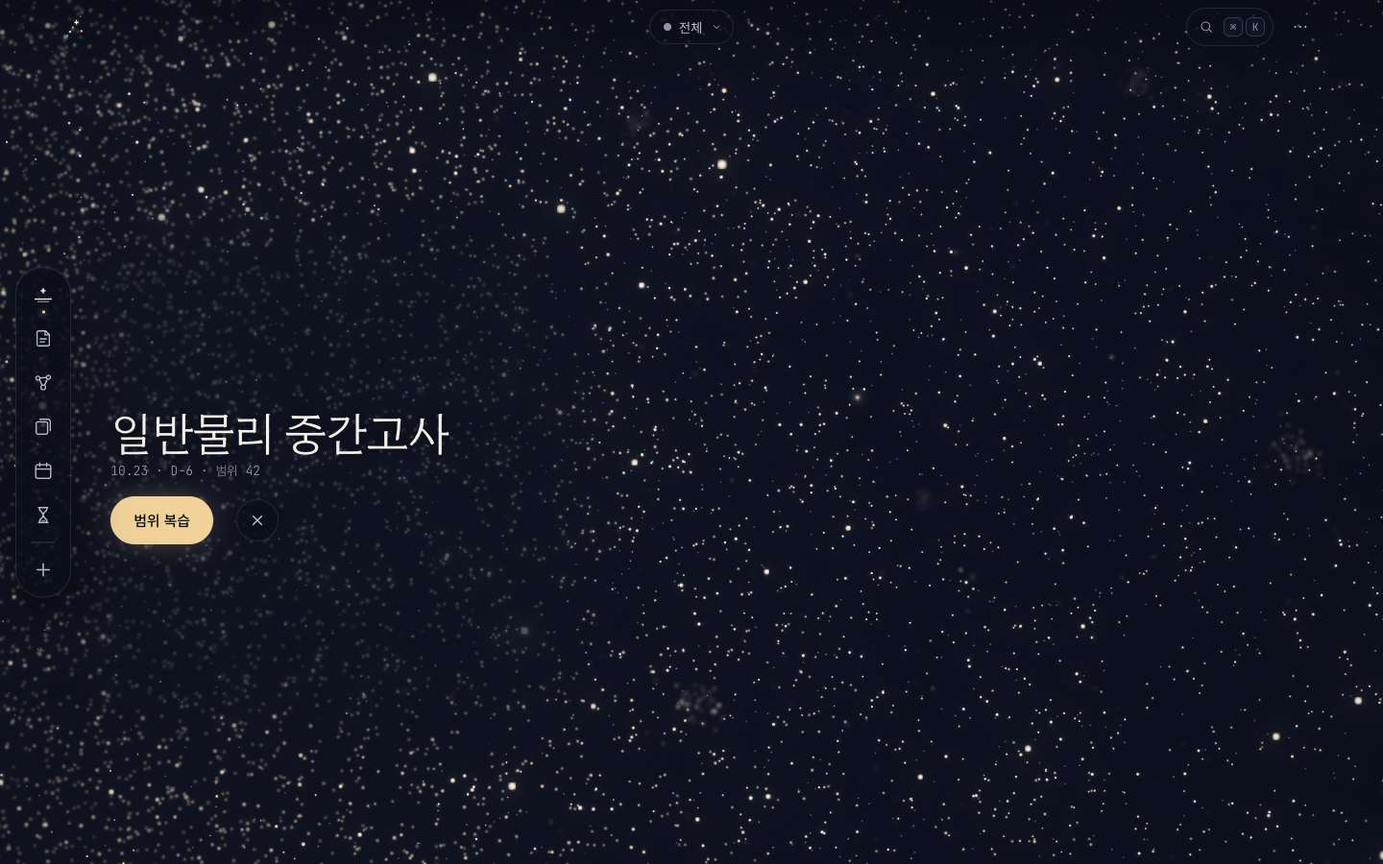
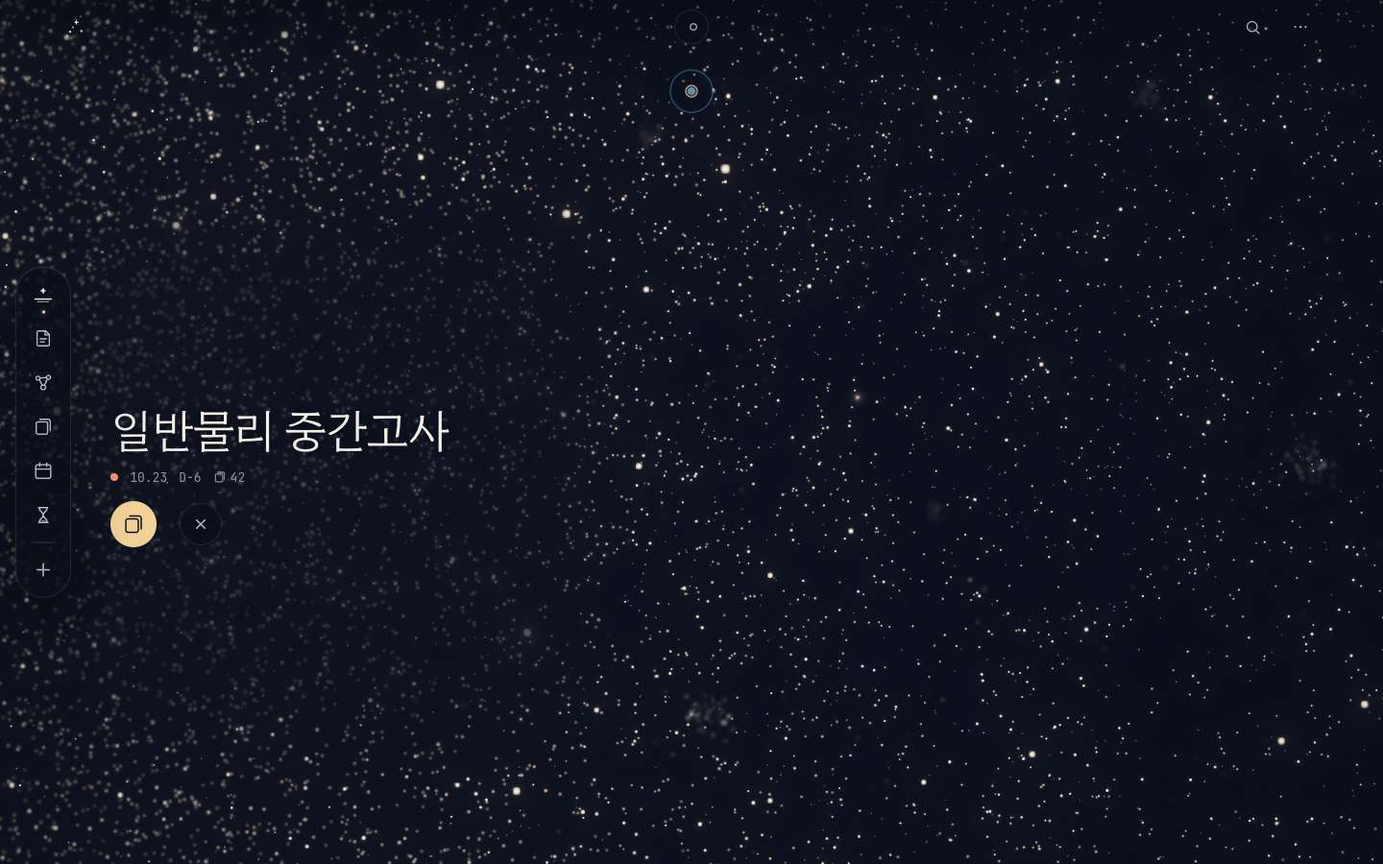
M3 최종 검수: review-m3(상 0·중 2·하 5) + 캡처 18장·한눈 시트

diff --git a/team/qa-tools/scenarios/qa-ink.js b/team/qa-tools/scenarios/qa-ink.js
@@ -1,0 +1,31 @@
+// 손글씨 종이(태블릿 1180×820, 펜): 쓰기·닫고 다시 열기·두/세 손가락 탭·둥근 메뉴·쪽 서랍·내보내기·Esc 겹침·오므려 닫기
+const R = (k, v) => print(k, typeof v === 'string' ? v : JSON.stringify(v))
+const step = async (name, fn) => { try { await fn() } catch (e) { R(name + ' ERR', e.message) } }
+const cnt = (store) => ev(`new Promise((ok) => { const q = indexedDB.open('gyeol'); q.onsuccess = () => { const t = q.result.transaction('${store}').objectStore('${store}').count(); t.onsuccess = () => { ok(t.result); q.result.close() } } })`)
+const L = () => ev(`(() => { const v = (s) => [...document.querySelectorAll(s)].some(e => { const r = e.getBoundingClientRect(); return r.width > 2 && +getComputedStyle(e).opacity > 0.05 && !e.closest('[inert]') }); const o = { pie: v('.ink-pie'), drawer: v('[class*=ink-drawer]'), sel: v('[aria-label="고른 것"]'), pop: v('.ink-pop'), palette: v('.palette'), undo: v('[class*=undo], [aria-label*="되돌"]'), tape: v('[class*=tape-chip], [class*=ink-tape]'), canvas: v('.ink-canvas') }; return Object.keys(o).filter(k => o[k]).join('+') })()`)
+const cv = async () => (await find('.ink-canvas'))[0]
+const pen = async (x1, y1, x2, y2) => { setMode('pen'); await drag(x1, y1, x2, y2, { steps: 10, stepMs: 12, force: 0.6 }) }
+const tapN = async (pts) => { await t('touchStart', pts); await sleep(60); await t('touchEnd', []); await sleep(500) }
+await size(1180, 820, { touch: true }); await nav('/notes', 2500)
+setMode('pen'); await tapSel('#stage button', '새 노트'); await sleep(1800)
+let c = await cv(); R('canvas', c)
+const s0 = await cnt('strokes')
+await step('I1', async () => { await pen(c.x - 200, c.y - 100, c.x - 60, c.y - 60); await pen(c.x - 200, c.y, c.x - 40, c.y + 20); await pen(c.x - 200, c.y + 80, c.x - 20, c.y + 90); await sleep(800); R('I1 strokes +', (await cnt('strokes')) - s0) })
+await shot('qa-r2-ink-written_1180x820', { clip: { x: 0, y: 0, width: 1180, height: 820 }, scale: 0.5 })
+await step('I3', async () => { const a = await cnt('strokes'); setMode('touch'); await tapN([[c.x + 100, c.y, 0], [c.x + 160, c.y, 1]]); await sleep(600); const b = await cnt('strokes'); await tapN([[c.x + 100, c.y, 0], [c.x + 160, c.y, 1], [c.x + 220, c.y, 2]]); await sleep(600); R('I3 2-finger undo / 3-finger redo strokes', [a, b, await cnt('strokes')]) })
+await step('I4', async () => {
+  setMode('pen'); await down(c.x + 150, c.y + 150); await sleep(750); R('I4 pen hold 750ms', await L()); await up(c.x + 150, c.y + 150); await sleep(300); R('  after lift', await L()); await key('Escape'); await sleep(300)
+  setMode('touch'); await down(c.x + 150, c.y + 150); await sleep(600); R('I4 finger hold 600ms', await L()); await up(c.x + 150, c.y + 150); await sleep(300); await key('Escape'); await sleep(300)
+  await send('Input.dispatchMouseEvent', { type: 'mousePressed', x: c.x + 150, y: c.y + 150, button: 'right', buttons: 2, clickCount: 1 }); await send('Input.dispatchMouseEvent', { type: 'mouseReleased', x: c.x + 150, y: c.y + 150, button: 'right', buttons: 0, clickCount: 1 }); await sleep(400)
+  R('I4 right click', await L()); await shot('qa-r2-ink-pie_1180x820', { clip: { x: 0, y: 0, width: 1180, height: 820 }, scale: 0.5 }); await key('Escape'); await sleep(300); R('  Esc', await L())
+})
+await step('I7', async () => { setMode('mouse'); await key('g'); await sleep(500); R('I7 G', await L()); await shot('qa-r2-ink-drawer_1180x820', { clip: { x: 0, y: 0, width: 1180, height: 820 }, scale: 0.5 }) })
+await step('I9', async () => { await key('k', 4); await sleep(400); R('I9 +⌘K', await L()); await key('Escape'); await sleep(400); R('  Esc1', await L()); await key('Escape'); await sleep(400); R('  Esc2', await L()); await key('Escape'); await sleep(900); R('  Esc3', (await L()) + ' canvas=' + (await find('.ink-canvas')).length + ' path=' + (await st()).path) })
+await step('I2', async () => { await nav('/notes', 2500); const [n] = await find('#stage li button:not(.notes-today-row)'); R('I2 first list item', n.t); await tap(n.x, n.y); await sleep(1800); R('I2 reopened canvas', (await find('.ink-canvas')).length + ' strokes total ' + await cnt('strokes')); await shot('qa-r2-ink-reopen_1180x820', { clip: { x: 0, y: 0, width: 1180, height: 820 }, scale: 0.5 }) })
+await step('I8', async () => { setMode('mouse'); await tapSel('.ink-tools [aria-label="더 보기"], [class*=ink] [aria-label="더 보기"]'); await sleep(400); const ex = await find('button', '내보내기'); R('I8 more menu has 내보내기', ex.length); if (ex[0]) { await tap(ex[0].x, ex[0].y); await sleep(400); R('  export pop', await ev(`[...document.querySelectorAll('.ink-pop button')].filter(b => b.getBoundingClientRect().width).map(b => b.getAttribute('aria-label') || b.innerText).join('/')`)) } await key('Escape'); await sleep(300); await key('Escape'); await sleep(300) })
+await step('I10', async () => {
+  c = await cv(); if (!c) { R('I10', 'no canvas'); return }
+  setMode('touch'); await pinch(c.x, c.y, 300, 270); await sleep(900); R('I10 pinch 300→270 (90%) → canvas', (await find('.ink-canvas')).length)
+  await pinch(c.x, c.y, 300, 180); await sleep(1200); R('I10 pinch 300→180 (60%) → canvas', (await find('.ink-canvas')).length + ' path=' + (await st()).path)
+})
+print(logs().filter((l) => !/Failed to load resource|\[vite\]/.test(l.text)))

diff --git a/team/qa-tools/scenarios/qa-ink2.js b/team/qa-tools/scenarios/qa-ink2.js
@@ -1,0 +1,34 @@
+// 종이 기능: 둥근 메뉴(펜 600·손가락 450·오른쪽 클릭) · 쪽 서랍 G · Esc 겹침 · 내보내기 · 테이프 · 올가미 · 다시 열기
+const R = (k, v) => print(k, typeof v === 'string' ? v : JSON.stringify(v))
+const step = async (name, fn) => { try { await fn() } catch (e) { R(name + ' ERR', e.message) } }
+const cnt = (store) => ev(`new Promise((ok) => { const q = indexedDB.open('gyeol'); q.onsuccess = () => { const t = q.result.transaction('${store}').objectStore('${store}').count(); t.onsuccess = () => { ok(t.result); q.result.close() } } })`)
+const L = () => ev(`(() => { const v = (s) => [...document.querySelectorAll(s)].some(e => { const r = e.getBoundingClientRect(); return r.width > 2 && +getComputedStyle(e).opacity > 0.05 && !e.closest('[inert]') }); const o = { pie: v('.ink-pie'), drawer: v('[class*=ink-drawer]'), sel: v('[aria-label="고른 것"]'), pop: v('.ink-pop'), palette: v('.palette'), canvas: v('.ink-canvas') }; return Object.keys(o).filter(k => o[k]).join('+') })()`)
+const open = async () => { await nav('/notes', 2500); const [n] = await find('#stage li button:not(.notes-today-row)'); setMode('mouse'); await tap(n.x, n.y); await sleep(1800) }
+await size(1180, 820, { touch: true }); await open()
+await step('I4', async () => {
+  setMode('pen'); await down(800, 500); await sleep(700); R('I4 pen hold 700ms', await L()); await up(800, 500); await sleep(300); R('  lift', await L()); await key('Escape'); await sleep(300); R('  Esc', await L())
+  setMode('touch'); await t('touchStart', [[800, 500, 0]]); await sleep(520); R('I4 finger hold 520ms', await L()); await t('touchEnd', []); await sleep(300); await key('Escape'); await sleep(300)
+  setMode('mouse'); await send('Input.dispatchMouseEvent', { type: 'mousePressed', x: 800, y: 500, button: 'right', buttons: 2, clickCount: 1 }); await send('Input.dispatchMouseEvent', { type: 'mouseReleased', x: 800, y: 500, button: 'right', buttons: 0, clickCount: 1 }); await sleep(400)
+  R('I4 right click', await L()); R('  pie items', await ev(`[...document.querySelectorAll('.ink-pie button')].map(b => b.getAttribute('aria-label') || b.innerText).join('/')`))
+  await shot('qa-r2-ink-pie_1180x820', { clip: { x: 0, y: 0, width: 1180, height: 820 }, scale: 0.5 }); await key('Escape'); await sleep(300); R('  Esc', await L())
+})
+await step('I9', async () => {
+  setMode('pen'); await drag(300, 250, 420, 300, { steps: 8, stepMs: 12 }); await sleep(300)
+  setMode('mouse'); await tapSel('[aria-label="올가미"]'); await sleep(200)
+  setMode('pen'); await down(270, 220); for (const [x, y] of [[460, 220], [460, 330], [270, 330], [270, 225]]) { await move(x, y); await sleep(30) } await up(270, 225); await sleep(500)
+  R('I6 lasso → ', await L())
+  const before = await ev(`document.querySelector('[aria-label="고른 것"]')?.getBoundingClientRect().x`)
+  await drag(360, 275, 560, 375, { steps: 10, stepMs: 14 }); await sleep(600)
+  R('I6 drag selection moved by', Math.round((await ev(`document.querySelector('[aria-label="고른 것"]')?.getBoundingClientRect().x`) ?? 0) - (before ?? 0)))
+  setMode('mouse'); await key('g'); await sleep(500); R('I7 G', await L())
+  await key('k', 4); await sleep(400); R('I9 +⌘K', await L())
+  for (let i = 1; i <= 4; i++) { await key('Escape'); await sleep(500); R('  Esc' + i, await L()) }
+})
+await open()
+await step('I8', async () => { setMode('mouse'); await tapSel('[class*=ink] [aria-label="더 보기"]'); await sleep(400); R('I8 more', await ev(`[...document.querySelectorAll('.ink-pop button')].filter(b => b.getBoundingClientRect().width).map(b => b.getAttribute('aria-label') || b.innerText).join('/')`)); const ex = await find('.ink-pop button', '내보내기'); if (ex[0]) { await tap(ex[0].x, ex[0].y); await sleep(400); R('  export', await ev(`[...document.querySelectorAll('.ink-pop button, .ink-pop [role=menuitem]')].filter(b => b.getBoundingClientRect().width).map(b => b.getAttribute('aria-label') || b.innerText).join('/')`)); await shot('qa-r2-ink-export_1180x820', { clip: { x: 0, y: 0, width: 1180, height: 820 }, scale: 0.5 }) } await key('Escape'); await sleep(300); R('  Esc', await L()) })
+await step('I5', async () => {
+  const p0 = await cnt('pageItems'); setMode('mouse'); await tapSel('[aria-label="테이프"]'); await sleep(200)
+  setMode('pen'); await drag(300, 520, 520, 560, { steps: 8, stepMs: 14 }); await sleep(600); R('I5 tape items +', (await cnt('pageItems')) - p0)
+  setMode('touch'); await tap(410, 540); await sleep(500); await shot('qa-r2-ink-tape-peel_1180x820', { clip: { x: 0, y: 0, width: 1180, height: 820 }, scale: 0.5 }); R('I5 tap tape → canvas', await L())
+})
+print(logs().filter((l) => !/Failed to load resource|\[vite\]/.test(l.text)))

diff --git a/team/qa-tools/scenarios/qa-retest.js b/team/qa-tools/scenarios/qa-retest.js
@@ -1,0 +1,47 @@
+// 재시험 묶음: #11 #12 #13 #14 #18 · 오늘의 별(today:N) 누르기 · #6 #7 #17 #19(빈 출처)
+const R = (k, v) => print(k, typeof v === 'string' ? v : JSON.stringify(v))
+await size(1440, 900); setMode('mouse')
+// #12 별가루함 Esc 포커스
+await nav('/', 2500)
+await tapSel('[aria-label^="별가루"]').catch(() => null); await sleep(600); await key('Escape'); await sleep(500)
+R('#12 dust Esc focus', (await st()).focus)
+// #13 .ics Esc 포커스
+await nav('/plan', 2500); await tapSel('#stage button[aria-label="더 보기"]'); await sleep(300)
+const doc = await send('DOM.getDocument', { depth: 1 })
+const { nodeId } = await send('DOM.querySelector', { nodeId: doc.root.nodeId, selector: 'input[type=file]' })
+await send('DOM.setFileInputFiles', { nodeId, files: [process.cwd() + '/team/test-timetable.ics'] }); await sleep(1000)
+await key('Escape'); await sleep(500); R('#13 ics Esc focus', (await st()).focus)
+// #18 커서
+await nav('/', 2500); await m('mouseMoved', 1300, 200); await sleep(200)
+const c1 = await ev(`getComputedStyle(document.elementFromPoint(1300, 200)).cursor`)
+await down(1300, 200); await move(1330, 230); await move(1350, 250); await sleep(80)
+R('#18 cursor sky/drag', c1 + ' / ' + await ev(`getComputedStyle(document.elementFromPoint(1350, 250)).cursor`)); await up(1350, 250); await sleep(300)
+// 오늘의 별 today:N 누르기
+await nav('/', 2800)
+const ts = (await stars(30, 24)).filter((s) => /^today:/.test(s.id))
+if (ts[0]) { await tap(ts[0].x, ts[0].y); await sleep(1400); R('today:N press', ts[0].id + ' → star=' + (await st()).star + ' hover=' + await ev(`(() => { return document.documentElement.classList.contains('star-hover') })()`)); await key('Escape'); await sleep(800) }
+// #11 집중 중 오늘 · #14 끝내기 포커스
+await nav('/focus', 2500)
+const sb = await find('#stage button', '^시작$'); if (sb[0]) { await tap(sb[0].x, sb[0].y); await sleep(1500) }
+await nav('/', 2500)
+R('#11 today while running', await ev(`[...document.querySelectorAll('#stage button, #stage h1, #stage p')].filter(e => e.getBoundingClientRect().width && !e.closest('[inert]')).map(e => (e.getAttribute('aria-label') || e.innerText).trim().slice(0, 24)).join(' / ')`))
+await nav('/focus', 2500); await tapSel('#stage button', '일시정지'); await sleep(400); await tapSel('#stage button', '끝내기'); await sleep(1200)
+R('#14 after 끝내기 focus', (await st()).focus)
+// 빈 출처: #6 #7 #19
+const O = 'http://127.0.0.1:5173'
+await send('Storage.clearDataForOrigin', { origin: O, storageTypes: 'all' })
+await nav(O + '/', 3500)
+const seen = []
+for (let i = 0; i < 12; i++) { await key('Tab'); seen.push(await ev(`(() => { const a = document.activeElement; let o = 1, e = a; while (e && e !== document.body) { o *= +getComputedStyle(e).opacity; e = e.parentElement } return (a.getAttribute('aria-label') || a.innerText || a.tagName).trim().slice(0, 8) + (o < 0.05 ? '(투명)' : '') + (a.closest('.onb, .onb-layer') ? '' : '(뒤)') })()`)) }
+R('#6 onb tab', seen.join(' → '))
+const smp = (await find('.onb-corner button')).find((b) => /샘플/.test(b.t)); await tap(smp.x, smp.y)
+const marks = []; for (let i = 0; i < 24; i++) { await sleep(250); marks.push(await ev(`document.querySelector('.onb') ? 1 : 0`)) }
+R('#7 onb visible/250ms', marks.join(''))
+await send('Storage.clearDataForOrigin', { origin: O, storageTypes: 'all' })
+await nav(O + '/', 3500); const sk = (await find('.onb-corner button')).find((b) => /건너/.test(b.t)); await tap(sk.x, sk.y); await sleep(1500)
+await nav(O + '/plan', 2500); R('#19 plan', await ev(`document.querySelector('#stage').innerText.slice(0, 40).replace(/\\n+/g, ' / ')`))
+await nav(O + '/review', 2500); R('#19 review', await ev(`document.querySelector('#stage').innerText.slice(0, 40).replace(/\\n+/g, ' / ')`))
+// #17 개발용 dry 모드 샘플
+await nav('/?onboarding=1', 3500)
+const d = (await find('.onb-corner button')).find((b) => /샘플/.test(b.t)); if (d) { await tap(d.x, d.y); let k = 0; for (; k < 40; k++) { await sleep(250); if (!(await ev(`!!document.querySelector('.onb')`))) break } R('#17 dry sample closes after', k * 250 + 'ms') }
+print(logs().filter((l) => !/Failed to load resource|\[vite\]/.test(l.text)))

diff --git a/team/qa-tools/scenarios/qa-ink3.js b/team/qa-tools/scenarios/qa-ink3.js
@@ -1,0 +1,28 @@
+// 올가미 옮기기 · 쪽 서랍 G · Esc 겹침(⌘K → 서랍 → 선택 → 종이) · 내보내기 팝오버 · 테이프 붙이기·걷기 (열린 필기 노트에서)
+const R = (k, v) => print(k, typeof v === 'string' ? v : JSON.stringify(v))
+const step = async (name, fn) => { try { await fn() } catch (e) { R(name + ' ERR', e.message) } }
+const cnt = (store) => ev(`new Promise((ok) => { const q = indexedDB.open('gyeol'); q.onsuccess = () => { const t = q.result.transaction('${store}').objectStore('${store}').count(); t.onsuccess = () => { ok(t.result); q.result.close() } } })`)
+const L = () => ev(`(() => { const v = (s) => [...document.querySelectorAll(s)].some(e => { const r = e.getBoundingClientRect(); return r.width > 2 && +getComputedStyle(e).opacity > 0.05 && !e.closest('[inert]') }); const o = { pie: v('.ink-pie'), drawer: v('[class*=ink-drawer]'), sel: v('[aria-label="고른 것"]'), pop: v('.ink-pop'), palette: v('.palette'), canvas: v('.ink-canvas') }; return Object.keys(o).filter(k => o[k]).join('+') })()`)
+const tool = async (name) => { if (!(await find(`[aria-label="${name}"]`)).length) { const b = await find('.ink-bead'); if (b[0]) { setMode('mouse'); await tap(b[0].x, b[0].y); await sleep(300) } } setMode('mouse'); await tapSel(`[aria-label="${name}"]`); await sleep(200) }
+await step('I6', async () => {
+  await tool('올가미')
+  setMode('pen'); await down(270, 170); for (const [x, y] of [[730, 170], [730, 260], [270, 260], [270, 175]]) { await move(x, y); await sleep(30) } await up(270, 175); await sleep(500)
+  R('I6 lasso', await L())
+  const bx = async () => ev(`(() => { const e = document.querySelector('[aria-label="고른 것"]'); if (!e) return null; const r = e.getBoundingClientRect(); return [Math.round(r.x), Math.round(r.y)] })()`)
+  const b0 = await bx(); await drag(500, 215, 560, 600, { steps: 10, stepMs: 14 }); await sleep(600); R('I6 sel box before/after drag', [b0, await bx()])
+  await shot('qa-r2-ink-lasso-moved_1180x820', { clip: { x: 0, y: 0, width: 1180, height: 820 }, scale: 0.4 })
+})
+await step('I7-9', async () => {
+  setMode('mouse'); await key('g'); await sleep(500); R('I7 G', await L())
+  await key('k', 4); await sleep(400); R('I9 +⌘K', await L())
+  for (let i = 1; i <= 4; i++) { await key('Escape'); await sleep(500); R('  Esc' + i, (await L()) + ' path=' + (await st()).path) }
+})
+await nav('/notes', 2500); { const [n] = await find('#stage li button:not(.notes-today-row)'); setMode('mouse'); await tap(n.x, n.y); await sleep(1800) }
+await step('I8', async () => { await tool('더 보기'); R('I8 more', await ev(`[...document.querySelectorAll('.ink-pop button')].filter(b => b.getBoundingClientRect().width).map(b => b.getAttribute('aria-label') || b.innerText.trim()).join('/')`)); const ex = await find('.ink-pop button', '내보내기'); await tap(ex[0].x, ex[0].y); await sleep(500); R('  after 내보내기', (await L()) + ' items=' + await ev(`[...document.querySelectorAll('.ink-pop button')].filter(b => b.getBoundingClientRect().width).map(b => b.getAttribute('aria-label') || b.innerText.trim()).join('/')`)); await shot('qa-r2-ink-export2_1180x820', { clip: { x: 0, y: 0, width: 1180, height: 820 }, scale: 0.4 }); await key('Escape'); await sleep(300); R('  Esc', await L()) })
+await step('I5', async () => {
+  const p0 = await cnt('pageItems'); await tool('테이프')
+  setMode('pen'); await drag(300, 640, 700, 690, { steps: 8, stepMs: 14 }); await sleep(700); R('I5 tape items +', (await cnt('pageItems')) - p0)
+  await shot('qa-r2-ink-tape_1180x820', { clip: { x: 0, y: 0, width: 1180, height: 820 }, scale: 0.4 })
+  setMode('touch'); await tap(500, 665); await sleep(600); await shot('qa-r2-ink-tape-peel_1180x820', { clip: { x: 0, y: 0, width: 1180, height: 820 }, scale: 0.4 }); R('I5 tap tape', await L())
+})
+print(logs().filter((l) => !/Failed to load resource|\[vite\]/.test(l.text)))

diff --git a/team/review-m3.md b/team/review-m3.md
@@ -1,0 +1,88 @@
+# M3 최종 검수 (아트 디렉터, 2026-10-17 · 리더 커밋 bd01c7e 기준)
+
+## 검수 방법
+
+- 헤드리스 크롬을 `--remote-debugging-port=0`과 격리 프로필(`ad-prof`, 작업용 임시 폴더)로 띄웠다. 끝난 뒤 크롬을 끄고 프로필을 지웠다.
+- 샘플은 그 프로필 안에서만 넣었다. 사용자 미리보기 탭과 대시보드 탭은 건드리지 않았다.
+- 펜은 CDP `pointerType: 'pen'`과 압력 값으로 흉내 냈다. 하늘은 소프트웨어 WebGL로 그렸다.
+- 화면에 보이는 글은 스크립트로 셌다. 실제로 그려진 글자 노드만 세고, sr-only·숨김·투명 요소는 뺐다.
+- 모든 실행에서 콘솔 오류는 0이었다.
+- 캡처: `team/figma-assets/m3-app/`(18장 + 한눈 시트 `sheet-m3.jpg`).
+
+## 1. 글 줄이기: design-quiet 결과표와 실제 화면
+
+| 화면 | 목표(design-quiet 2장) | 실제로 보이는 앱의 말 | 판정 |
+|---|---|---|---|
+| 오늘 | 과목 이름 또는 숫자 하나 | `월 09:00` + 과목 점, 별가루 `3`. 첫 방문만 검색 아이콘 밑에 `검색 ⌘K`(첫 회 안내) | 통과 |
+| 노트 목록 | 없음 | 없음(노트 제목은 데이터, 오늘 수업 줄은 `15:00`) | 통과 |
+| 필기 종이 | 0줄 | 0줄. 쪽 번호 `1 / 1`(숫자)만 | 통과 |
+| 쪽 서랍 | 노트 제목 1줄 | `10.17 필기` + 쪽 번호 | 통과 |
+| 둥근 메뉴 · 선택 칸 | 아이콘만 | 아이콘만 | 통과 |
+| 복습 | 없음(카드 글은 데이터) | `1 / 13`. 처음 10장은 ↺ · ✓ 아래에 흐린 "다시 · 알았음". ✓를 길게 누르면 "어려움 · 알맞음 · 쉬움"(부르면 나오는 말) | 통과 |
+| 집중 | `25:00` | `25:00` + 시간 칩 15 · 25 · 50 | 통과 |
+| 계획 | `D-6` | `D-6` + 격자 축 숫자 · 요일 한 글자 + 수업 이름(데이터) | 통과 |
+| 지도 | 없음 | 없음 | 통과 |
+| ⌘K | 입력 + 결과 제목 | "새 필기 노트", ‘펜’. 첫 3회는 아래 키 안내 | 통과 |
+| 메모 칸 | 없음(첫 3회 "생각 하나") | "생각 하나"(첫 회) + `↵` | 통과 |
+| 별가루함 | 없음 | `3` + 메모 글(데이터) | 통과 |
+| 설정 시트 | 없음 | `—`(마지막 보관) · `409KB`. 개발 서버라 '개발용' 단원이 보인다(`import.meta.env.DEV` 가드, 출시 빌드에서는 숨음) | 통과 |
+
+**결과:** 모든 화면에서 늘 보이는 앱의 말이 1줄 이하다.
+
+## 2. 손글씨: design-ink 대조
+
+| 항목 | design-ink | 실제 | 판정 |
+|---|---|---|---|
+| 펼친 종이 · 하늘 비켜남 | 데스크톱 너비 1000(좌우 220), 위 여백 72, 밤 종이 `#0E1322` + 줄 | 너비 ≈1000, 밤 종이와 흐린 줄, 하늘은 별만 남고 은하는 비켜남 | 통과. 조용하고 단정하다 |
+| 도구 칸 | 위 가운데, 마우스 높이 40 · 너비 ≈390, 도구 5 · 색 3 · 굵기 · ⋯, blur 없음 | 위 가운데 ≈380px, 구성 같음 | 통과 |
+| 구슬 접힘 | 쓰는 동안 지금 도구 하나로 접히고, 2.4초 쉬면 펴짐 | 쓰는 중에는 펜 구슬, 3.5초 뒤 펼침 | 통과 |
+| 둥근 메뉴 | 반지름 88 · 가운데 28, 6칸(붙이기 · 글 상자 · 사진 · 쪽 추가 · 쪽 틀 · 도형) | 오른쪽 클릭 자리에 6칸, 배치 같음, 가운데 점 | 통과. 아름답다 |
+| 쪽 서랍 | 왼쪽 판 196, 머리 = 제목 + PDF 가져오기·내보내기, 썸네일, 쪽 추가 | 같음. 지금 쪽에 금빛 테두리, 점선 쪽 추가 | 통과 |
+| 선택 칸 | 올가미 뒤 떠 있는 칸 | 점선 고른 상자 + 칸(색 · 가리기 · 복사 · 복제 · 지우기 · ⋯) + 이음선 | 통과 |
+| 테이프 | 붙이기 → 누르면 걷힘 | 회색 띠로 가려짐 → 펜으로 누르면 걷힘 | 통과(걷히는 모션의 중간 프레임은 확인 못 함) |
+| 첫 회 안내 카드 | 120×72, 도구 칸 반대쪽, 글자 없음 | 아래 가운데, 선 그림(되돌리기 곡선 등), 글자 없음 | 통과 |
+| 목록 썸네일 · 미리보기 | — | 목록 줄 오른쪽 썸네일, 오른쪽 미리보기 | **고칠 것 M3-2 · M3-3** |
+| `G` 쪽 서랍 | 키 `G` | 목록에서 노트를 눌러 연 직후 `G`로 열리지 않았다(쪽 번호 누르기로는 열림) | **고칠 것 M3-1** |
+
+## 3. 메모
+
+| 항목 | 실제 | 판정 |
+|---|---|---|
+| 펜으로 ＋ → 손글씨 메모 칸 | 태블릿 세로: 칸이 높이 220의 잉크 칸이 되고 금빛 ↑가 나온다. 같은 세션에서 Esc 뒤 다시 열면 획이 남아 있다(초안) | 통과 |
+| 저장 → 별가루함 | 별가루 3 → 4. 줄에 잉크가 그대로 보인다 | 통과. 단, 별가루함의 잉크가 각진 꺾은선으로 그려진다(M3-4) |
+| 메모 종류 펼침 | ＋ → 체크리스트 · 사진 · 고정 · 음성 · 접기(아이콘) | 통과(체크·음성 녹음 자체는 시험하지 않음) |
+| 별가루함 머리 | `3` + 과목 점 줄(과목별 보기) + 정렬 · 접기 아이콘 | 통과 |
+| 폰 메모 칸 | 아래 시트, "생각 하나"(첫 회) + 과목 점 + ＋ | 통과 |
+
+## 4. 고칠 것
+
+| # | 등급 | 무엇 | 재현 · 근거 | 고치는 방향 | 담당 |
+|---|---|---|---|---|---|
+| M3-1 | 중 | 쪽 서랍 단축키 `G`가 종이를 연 직후 먹지 않는다 | 노트 목록에서 필기 노트를 눌러 연 뒤 `G` → 아무 일 없음. 쪽 번호 누르기로는 열린다. 키 입력이 종이에 포커스가 있을 때만 받는 듯하다 | 종이가 열리면 포커스를 종이(또는 잉크 층)로 옮기거나, 키를 window에서 받되 입력칸에서만 막는다 | 손글씨 |
+| M3-2 | 중 | 필기 노트 미리보기가 작다 | 데스크톱 노트 목록 오른쪽 미리보기에서 쪽 썸네일이 ≈95×125px이고 아래가 비어 있다 | 쪽 그림을 미리보기 칸 너비에 맞춰 크게(최대 1쪽) 보인다 | 앱 A |
+| M3-3 | 하 | 목록 줄 썸네일 테두리가 밝다 | 폰 노트 목록의 '10.17 필기' 줄 썸네일이 흰 2px 테두리라 고른 상태처럼 보인다 | 1px `--border`로 낮추고 잉크를 조금 굵게 그린다 | 앱 A |
+| M3-4 | 하 | 별가루함의 손글씨 메모가 각지다 | 메모 칸에서는 부드러운 획이 별가루함 줄에서는 꺾은선으로 보인다 | 종이와 같은 획 다듬기(perfect-freehand)로 그리거나 저장한 썸네일 그림을 쓴다 | 앱 B · 손글씨 |
+| M3-5 | 하 | 복습 키 숫자가 겹쳐 보인다 | ✓를 길게 누르면 ✓의 `3`과 '알맞음'의 `3`이 동시에 보인다. 키 숫자가 버튼 오른쪽 위에 떠 있다 | 펼친 동안 ✓의 키 숫자는 숨긴다. 키 숫자는 버튼 아래 가운데로 옮긴다 | 앱 A |
+| M3-6 | 하(이월) | 오늘의 별자리 덩어리 | 오늘 시점에서 오늘의 별 + 별가루가 밝은 금빛 덩어리로 보인다(M2 중 · 이월) | M2 검수안(별 사이 최소 10px) | 모션 |
+| M3-7 | 하 | 손글씨 메모 초안이 앱을 다시 열면 사라진다 | 같은 세션에서는 남지만, 브라우저를 새로 열면 빈 칸이다 | 글 초안과 같은 규칙이면 그대로 둔다. 잉크는 다시 쓰기 어려우니 로컬에 1개 보관을 권한다(리더 판단) | 앱 B |
+
+**'상' 등급은 없다.** 펜 → 종이 펼침 → 쓰기 → 닫기 → 목록 썸네일, 펜 ＋ → 손글씨 메모 → 저장의 흐름이 모두 동작했다.
+
+## 5. 확인하지 못한 것
+
+- 실기기 펜(압력 · 손바닥 무시 · 호버로 구슬 펴기)과 120Hz 잉크 지연
+- PDF 가져오기 · 내보내기
+- 체크리스트 · 음성 메모의 실제 기록
+- 테이프가 걷히는 중간 모션
+- 낮 종이
+- 폰의 펼친 종이(아래 도구 칸)
+
+## 캡처 (`team/figma-assets/m3-app/`)
+
+- 1440×900:
+  - 오늘 · 노트: `today`, `notes-list`, `notes-list-thumb`
+  - 필기 종이: `ink-writing-bead`(쓰는 중 구슬), `ink-written-toolbar`, `ink-pie`, `ink-drawer`, `ink-selection`, `ink-tape`
+  - 그 밖: `review-fan`, `cmdk`, `dustbox`, `memo-kinds`
+- 820×1180: `ink-paper`, `memo-ink`, `dustbox-ink-thumb`
+- 390×844: `notes-list`, `memo`
+- 한눈 시트: `sheet-m3.jpg`
